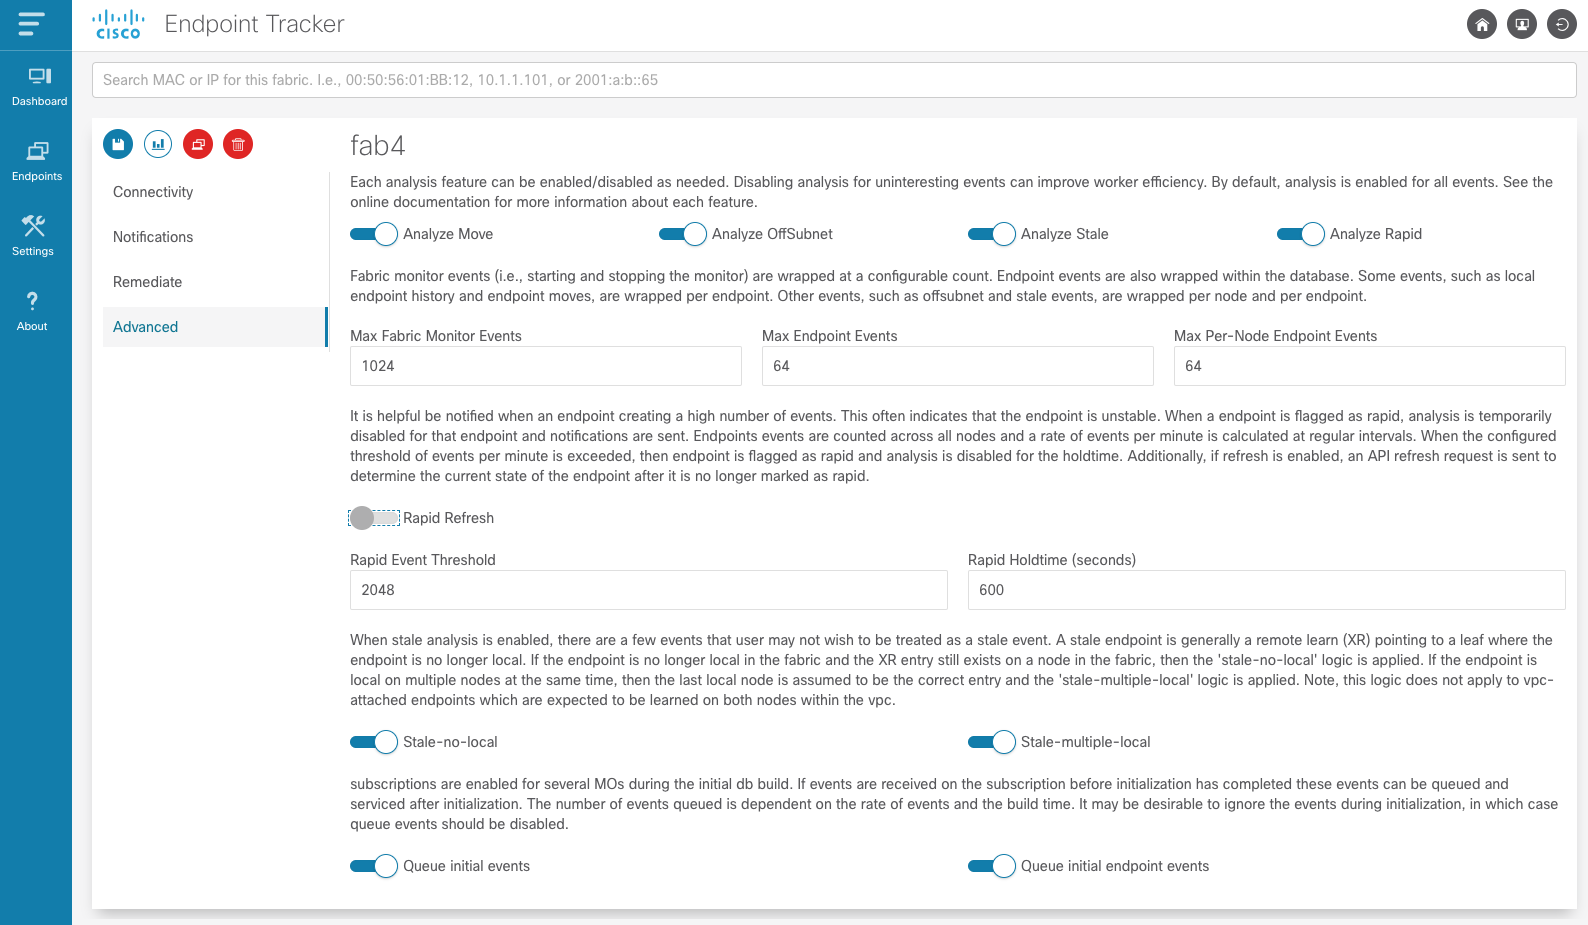
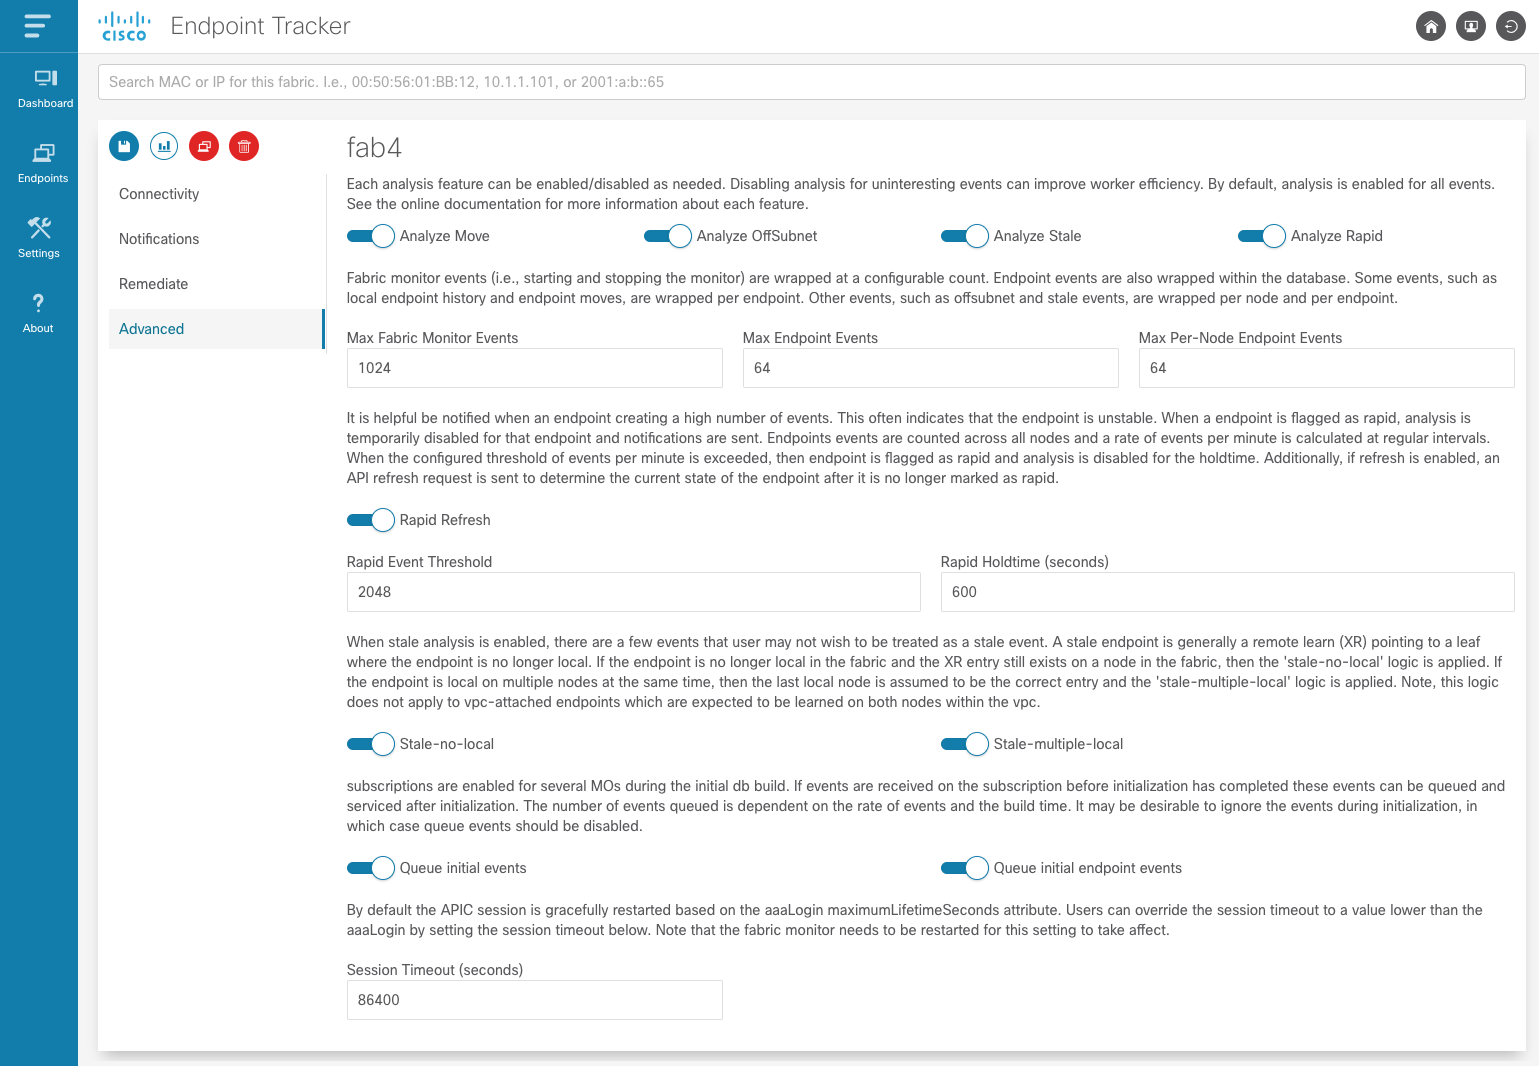
docs: document session timeout

Changed region(s): [[0.0, 0.0, 0.9981, 1.0], [0.9045, 0.0, 0.9981, 0.0605], [0.5926, 0.9081, 0.7485, 0.9384]]

diff --git a/docs/usage.rst b/docs/usage.rst
@@ -404,6 +404,17 @@ events can be disabled.
 * **Queue initial events** enables queueing of all standard MO events during build
 * **Queue initial endpoint events** enables queuing of all EPM events during endpoint build
 
+Session Timeout
+~~~~~~~~~~~~~~~
+
+By default the APIC session is gracefully restarted based on the aaaLogin maximumLifetimeSeconds 
+attribute. Users can override the session timeout to a value lower than the aaaLogin lifetime by 
+setting a limit on the session time. **Note** the fabric monitor needs to be restarted for this 
+setting to take affect.
+
+* **Session Timeout** maximum time in seconds before new login and websocket is started for APIC
+  session
+
 .. |fabric-settings-advanced| image:: imgs/fabric-settings-advanced.png
    :align: middle
 
